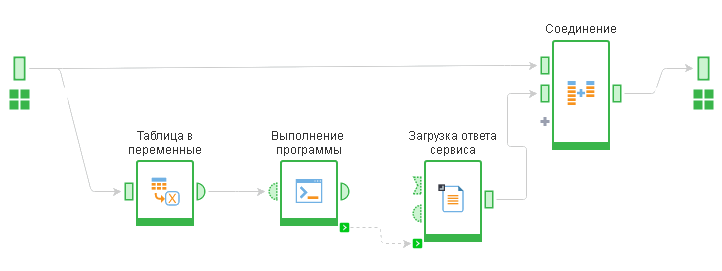
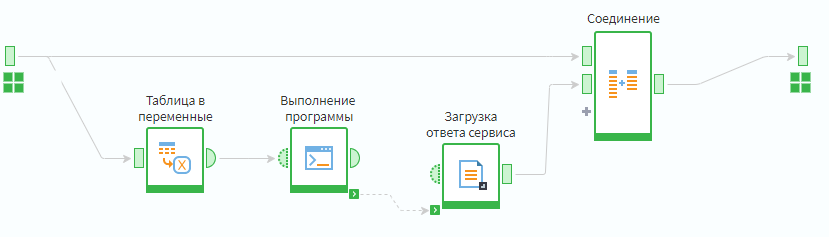
Заменил изображения в 3-х разделах. Интеграция, Интерфей и Проектирование сценариев

diff --git a/scenario/run-order.md b/scenario/run-order.md
@@ -19,7 +19,7 @@ Loginom предоставляет возможность параллельно
 
 Для задания последовательности выполнения Сценария используют порт порядка выполнения (см. рисунок 3):
 
-![Пример использования служебных портов.](run-order-3.png)
+![Пример использования служебных портов.](./ports/service-port-1.png)
 
 В данном примере между узлами "Выполнение программы" и "Загрузка ответа сервиса" нет связи между входными и выходными портами. Чтобы последовательность выполнения этих узлов не прерывалась используется связь между портами порядка выполнения.
 
@@ -43,4 +43,4 @@ Loginom предоставляет возможность использован
 
 [Условие](../processors/control/condition.md) — управляющая конструкция, обеспечивающая ветвление алгоритма в зависимости от значения некоторого выражения (аналог "SWITCH... CASE..."). В зависимости от заданного условия ход выполнения Сценария может пойти по одной из возможных веток (см. рисунок 3).
 
-![Выполнение одной из веток сценария в зависимости от условия.](run-order-4.png)
+![Выполнение одной из веток сценария в зависимости от условия.](run-order-3.png)
